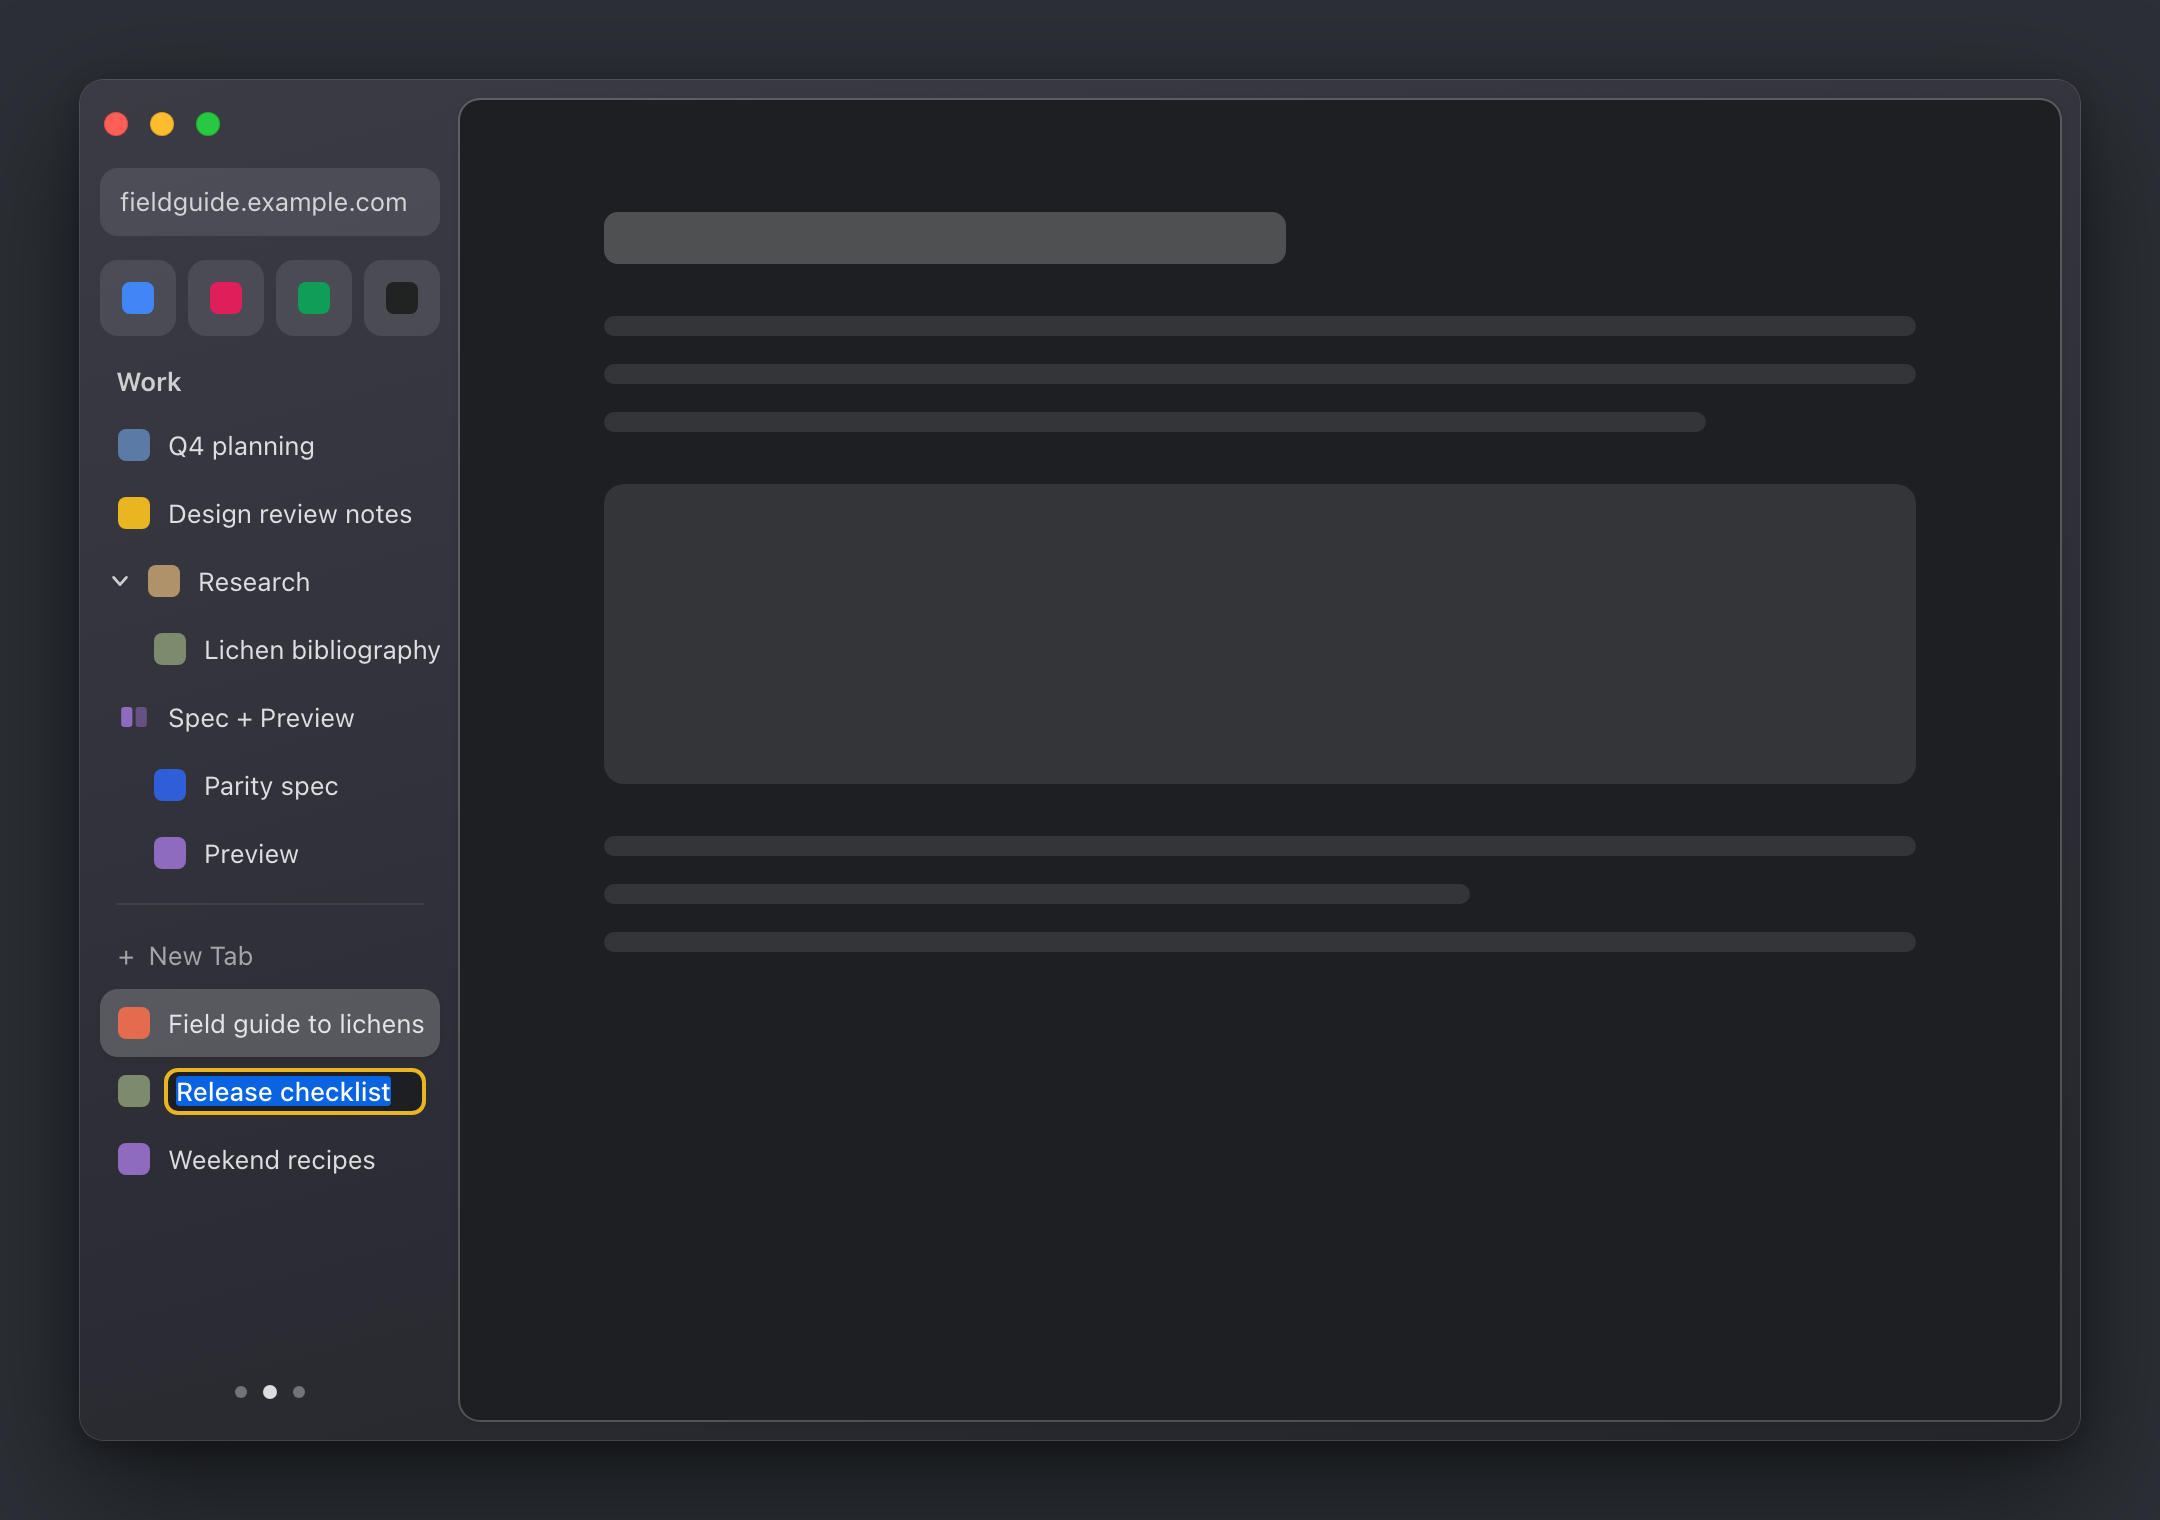
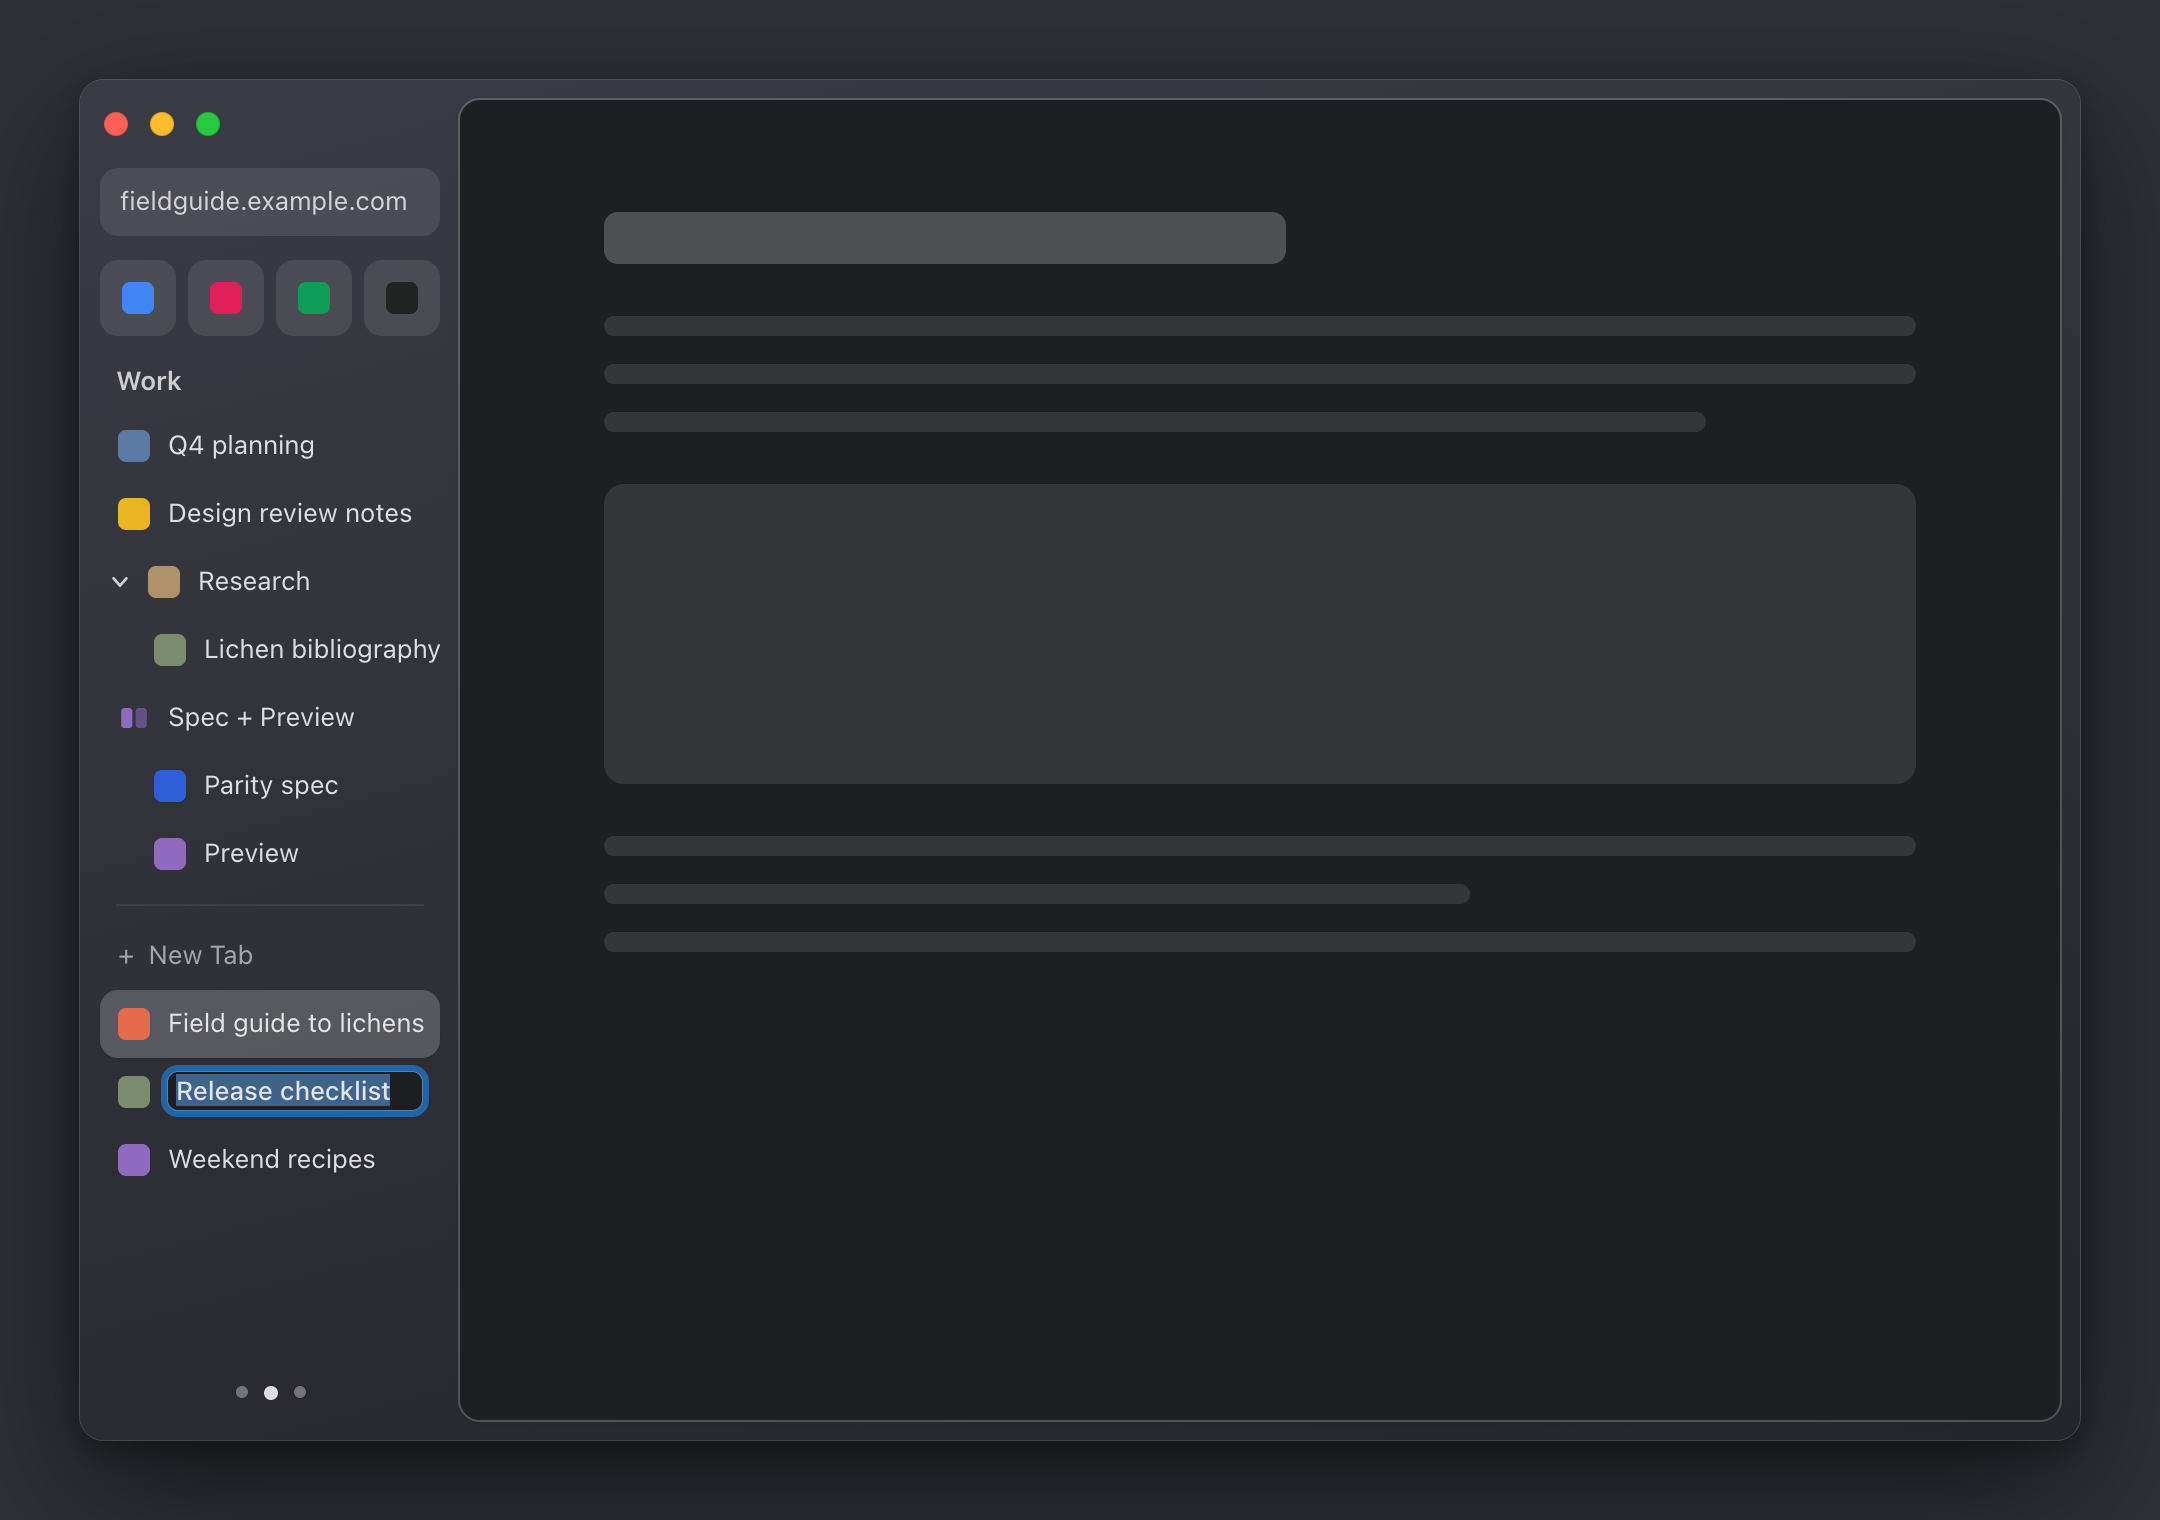
Use the system focus ring on the inline rename field; state that the menus are plain NSMenus

diff --git a/design/tab-context-menus/prototype.html b/design/tab-context-menus/prototype.html
@@ -17,7 +17,8 @@
 :root {
   /* BrandTokens */
   --accent: #E9B520; --accent-highlight: #F3CA3D; --accent-pressed: #DCA319; --on-accent: #202321;
-  --focus: #202321;                   /* focusRing */
+  --focus: rgba(0,103,244,0.50);      /* system keyboard focus ring (NSColor.keyboardFocusIndicatorColor, Blue accent) */
+  --text-sel: #B3D7FF;                /* NSColor.selectedTextBackgroundColor, Blue accent */
   /* ShellTokens */
   --text: color(display-p3 0.0549 0.0588 0.0627 / 0.90);         /* primaryText */
   --text-2: rgba(0,0,0,0.64);                                    /* secondaryText */
@@ -41,7 +42,8 @@
   color-scheme: light;
 }
 :root[data-theme="dark"] {
-  --focus: #E9B520;
+  --focus: rgba(26,145,255,0.55);
+  --text-sel: #3F638B;
   --text: rgba(255,255,255,0.84); --text-2: rgba(255,255,255,0.76);
   --fill: color(display-p3 0.98 0.984 1 / 0.10); --fill-hover: color(display-p3 0.98 0.984 1 / 0.15);
   --divider: rgba(255,255,255,0.075); --card-border: rgba(255,255,255,0.20);
@@ -102,9 +104,9 @@ button { font: inherit; color: inherit; }
 .page i.img { height: 150px; border-radius: 10px; margin: 26px 0; }
 
 /* Inline rename field (BH-026): the row keeps its fill, the field takes the title's bounds */
-.srow .field { flex: 1; min-width: 0; background: var(--page); border-radius: 5px; outline: 2px solid var(--focus);
+.srow .field { flex: 1; min-width: 0; background: var(--page); border-radius: 5px; box-shadow: 0 0 0 0.5px var(--card-border), 0 0 0 3.5px var(--focus);
   padding: 1px 4px; font-weight: 500; overflow: hidden; }
-.srow .field .s { background: var(--menu-hi); color: #fff; border-radius: 2px; }
+.srow .field .s { background: var(--text-sel); color: var(--text); }
 
 /* ---------- Context menu (native NSMenu imitation) ---------- */
 .menu { position: absolute; min-width: 224px; padding: 5px; border-radius: 8px; background: var(--menu);

diff --git a/design/tab-context-menus/tab-context-menus.md b/design/tab-context-menus/tab-context-menus.md
@@ -160,8 +160,10 @@ Right-click any selected row with 2 or more rows selected (BH-028, GS-031 for th
 
 Double-click any tab row (or choose Rename) and the row's title becomes an inline text field, in place: the row
 keeps its fill and favicon, the field takes the title's exact bounds, 13 pt, the current title fully selected,
-white field (graphite in dark) with a 2 pt `focusRing` outline and radius 5. Return commits; Escape cancels and
-restores the title; clicking outside commits (as folder rename does, BH-096; the tab behavior is [I]). The
+white field (graphite in dark), radius 5, with the system focus ring (`focusRingType = .default`, drawn by AppKit
+in `NSColor.keyboardFocusIndicatorColor`, so it follows the user's accent color) and the system text selection
+color. Mustard is never a stroke, so the brand accent does not appear on the field. Return commits; Escape
+cancels and restores the title; clicking outside commits (as folder rename does, BH-096; the tab behavior is [I]). The
 custom title persists (BH-026). Two negative rules stay: pinning a tab never opens the field (BH-064), and
 moving a tab between Spaces never opens it (BH-026). The field is single-line; pasting a newline commits. No
 animation: the field is simply there (menus and text editing do not spring).
@@ -205,9 +207,11 @@ The menus are native `NSMenu`s (`menuNeedsUpdate` from `clickedRow`, as today), 
 corner radius, shadow, item height and key-equivalent column, and light/dark, Increase Contrast and Reduce
 Transparency come free. What this design fixes is structure: item titles and order (section 3), `autoenablesItems
 = false` with explicit enabled rules, key equivalents mirroring the menu bar, and hidden Option-alternates
-where Arc has them. For illustration the prototype draws the menus with these native metrics (pt): item height
-22, font 14, leading inset 12, key column trailing inset 12, separator 1 pt inset 12 with 5 pt above and
-below, min width 220, radius 8, surface white at 0.97 (dark #2D2D30 at 0.97), highlight the system accent,
+where Arc has them. Nothing in the menus is custom-drawn: no custom item views (`NSMenuItem.view` stays nil), no
+attributed titles, no brand colors, fonts or highlight; any item icon is a plain `NSMenuItem.image`. The
+highlight is the system accent, never mustard. For illustration only, the prototype imitates the menus with these
+native metrics (pt): item height 22, font 14, leading inset 12, key column trailing inset 12, separator 1 pt
+inset 12 with 5 pt above and below, min width 220, radius 8, surface white at 0.97 (dark #2D2D30 at 0.97), highlight the system accent,
 disabled text at 0.35.
 
 The sidebar in the prototype reuses the alerts prototype's window chrome: 190 pt sidebar, 34 pt rows with 9 pt
